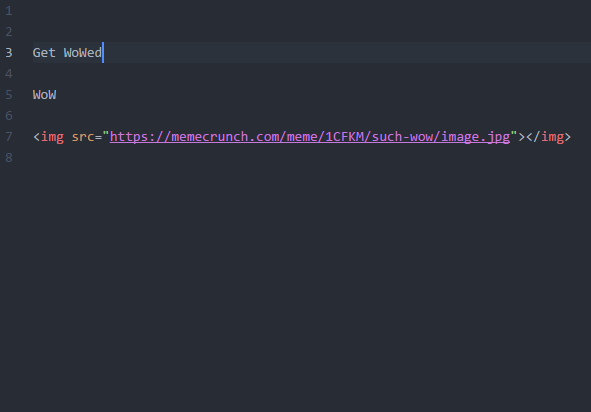
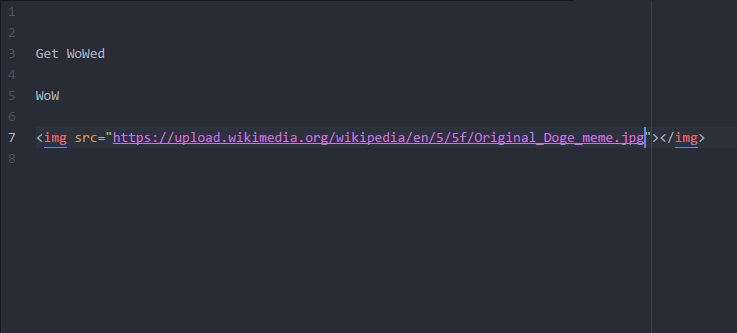
fix

diff --git a/lib/doge-img.js b/lib/doge-img.js
@@ -34,7 +34,7 @@ export default {
             wordRegex: "WoW"
           }) && this.valid == true) {
             var editor = atom.workspace.getActiveTextEditor();
-            editor.insertText('<img src="https://memecrunch.com/meme/1CFKM/such-wow/image.jpg"></img>');
+            editor.insertText('<img src="https://upload.wikimedia.org/wikipedia/en/5/5f/Original_Doge_meme.jpg"></img>');
             this.vaild = false;
 
           }

diff --git a/README.md b/README.md
@@ -1,5 +1,5 @@
 # doge-img package
 
-A short description of your package.
+A very basic package which purpose is to make it to add doge to you're website.
 
 ![A screenshot of your package](atom://doge-img/res/pic.png)
